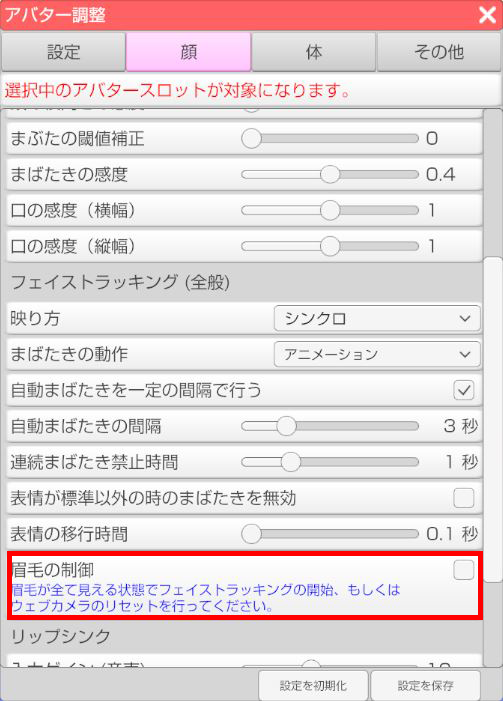
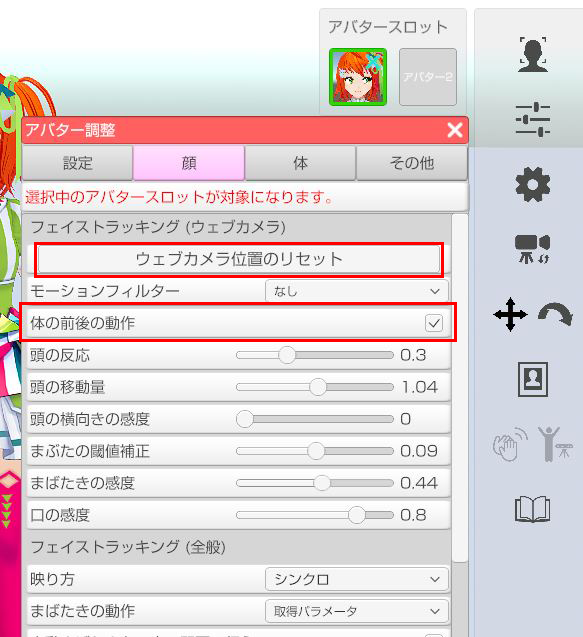
ウェブカメラのリセットいついて追記。

diff --git a/ft_webcamera.md b/ft_webcamera.md
@@ -49,22 +49,35 @@
 ><font color="Blue">※[仮想ウェブカメラ(UnityCapture)](#VirtualWebCamera.md)を使用した出力では
 >　プレビューウインドウはメニューと同様の扱いとなり録画対象となりません。</font>
 
+### ウェブカメラの位置をリセットする
+
+>ウェブカメラをリセットする事で下記の計算の初期化を行います。
+
+>・認識の基準位置
+>・体の前後の動作
+>・眉毛の動作
+
+![画像](image/webcamera_settings_5.png "")
 
 ### 体の前後の動作
 
->アバターの調整「顔」タブの「体の前後の動作」にチェックを入れることにより、フェイストラッキングでアバターの前後に動かすことが出来ます。
->フェイストラッキングで使用しているカメラに顔を近づけると、アバターの体は前に傾き、カメラから顔を離すと、アバターの体は後ろに傾きます。
+>アバターの調整「顔」タブの「体の前後の動作」にチェックを入れることにより、
+>フェイストラッキングでアバターの前後に動かすことが出来ます。
+>フェイストラッキングで使用しているカメラに顔を近づけると、
+>アバターの体は前に傾き、カメラから顔を離すと、アバターの体は後ろに傾きます。
 
->ウェブカメラのリセットをすることで、基準となる位置をリセットすることが出来ます。
+><font color="Red">ウェブカメラのリセット</font>を行う事で、基準となる位置をリセットすることが出来ます。
 
-![画像](image/webcamera_settings_5.png "")
+![画像](image/webcamera_settings_6.png "")
 
 
 ### 眉毛の動作
 
->アバターの調整「顔」タブの「眉毛の制御」にチェックを入れることにより、フェイストラッキングで眉毛動かすことが出来ます。
->※PerfectSync 対応モデルのみ
+>アバターの調整「顔」タブの「眉毛の制御」にチェックを入れることにより、
+>フェイストラッキングで眉毛動かすことが出来ます。
+><font color="Blue">※PerfectSync 対応した VRM モデルを読み込んでいる必要があります。</font>
 
->ウェブカメラのリセットをすることで、基準となる位置をリセットすることが出来ます。
+><font color="Blue">眉毛は上下に動くので基準となる中心位置を決める</font>必要があります。
+><font color="Red">ウェブカメラのリセット</font>を行う事で、基準となる位置をリセットすることが出来ます。
 
-![画像](image/webcamera_settings_6.png "")
+![画像](image/webcamera_settings_7.png "")
